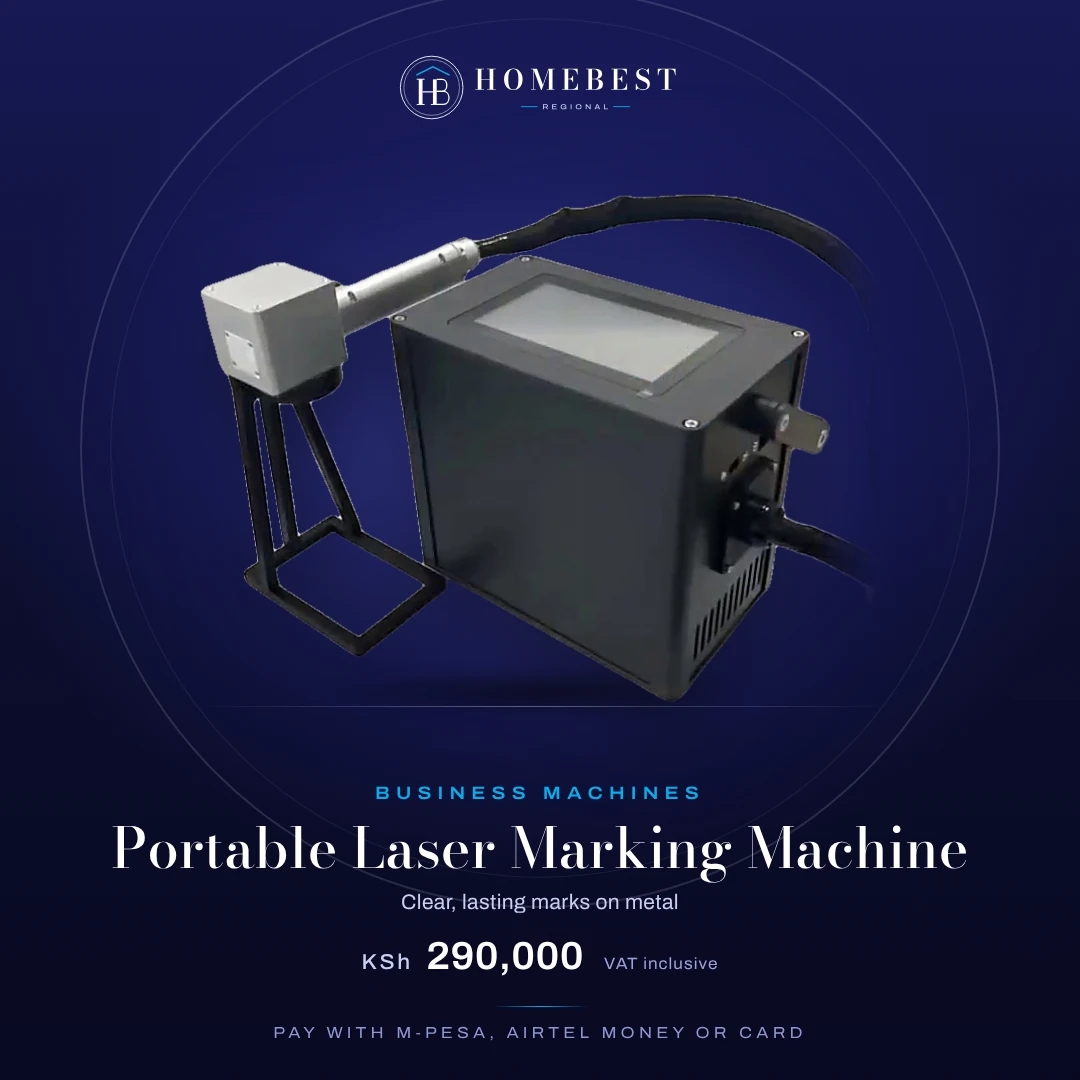
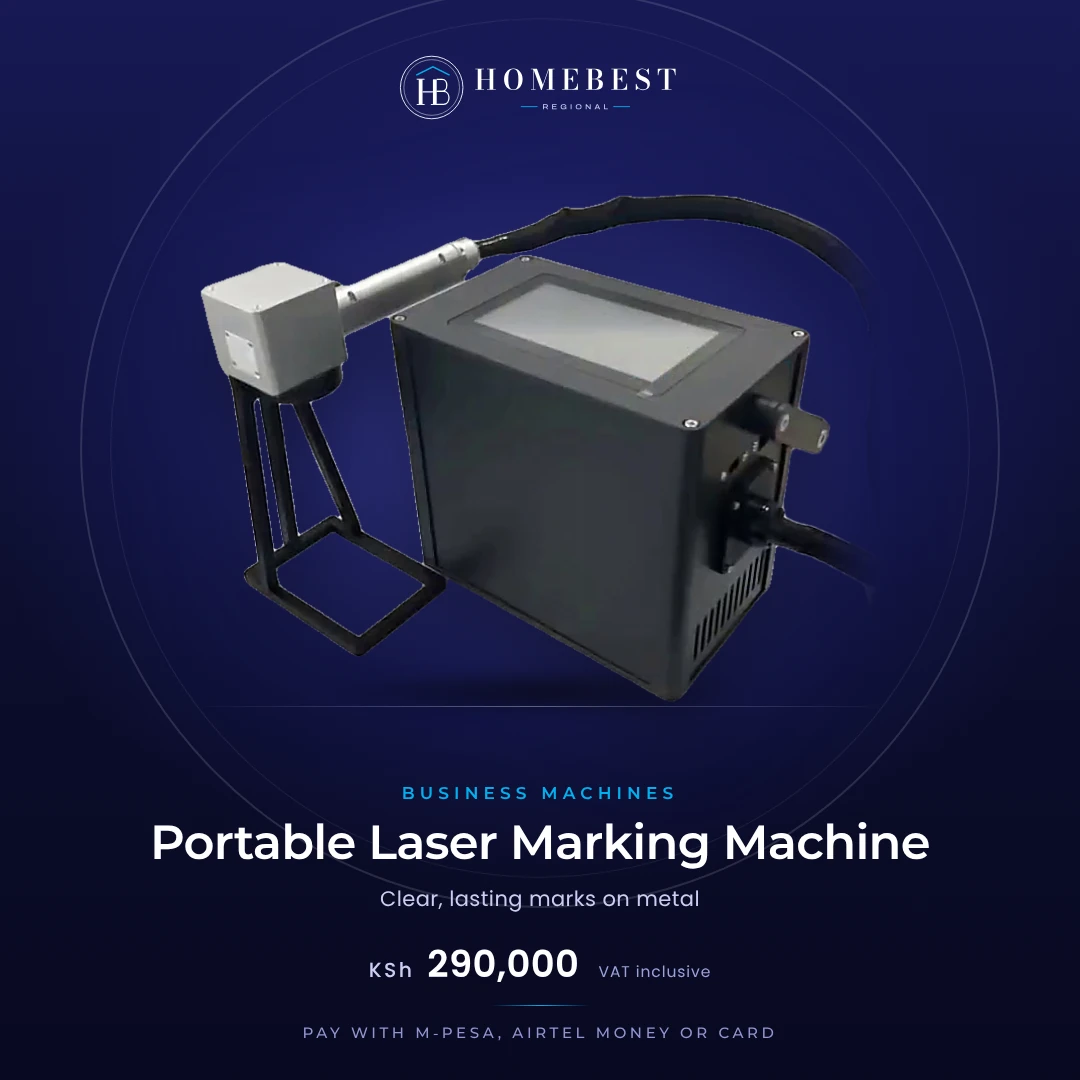
Montserrat headings, Poppins body; show products with no price as "Price on request"
- Fonts: Montserrat for titles and headings, Poppins for body text
- Branded product pictures redone in the same fonts
- Price 0 shows "Price on request" with an ask button; checkout and cart refuse it
- Header: nav stays on one line; search box shows on wide screens

Claude-Session: https://claude.ai/code/session_01E5MXWHsrJD8r9zB29mGTXd

Changed region(s): [[0.0917, 0.7028, 0.8861, 0.9167], [0.2444, 0.9472, 0.7333, 0.9778]]

diff --git a/app/globals.css b/app/globals.css
@@ -23,8 +23,8 @@
   --danger-tint: #fdecea;
   --warning-tint: #fff4d6;
 
-  --font-display: 'Bodoni Moda Variable', 'Didot', Georgia, serif;
-  --font-body: 'Archivo Variable', system-ui, sans-serif;
+  --font-display: 'Montserrat Variable', 'Montserrat', system-ui, sans-serif; /* titles and headings */
+  --font-body: 'Poppins', system-ui, sans-serif;                             /* body text */
 
   --radius-sm: 4px;
   --radius: 6px;
@@ -46,8 +46,8 @@ body {
   background: var(--paper);
   color: var(--ink);
   font-family: var(--font-body);
-  font-size: 17px;
-  line-height: 1.55;
+  font-size: 16px;
+  line-height: 1.65;
   -webkit-font-smoothing: antialiased;
 }
 
@@ -57,21 +57,18 @@ a:hover { color: var(--brand-deep); }
 
 h1, h2, h3, h4 {
   font-family: var(--font-display);
-  font-weight: 500;
-  font-variation-settings: 'opsz' 28;
-  line-height: 1.12;
-  letter-spacing: 0;
+  font-weight: 600;
+  line-height: 1.15;
+  letter-spacing: -0.015em;
   margin: 0 0 0.5em;
   color: var(--ink);
 }
-h3, h4 { font-family: var(--font-body); font-weight: 650; font-variation-settings: normal; }
-/* The staff panel keeps the plain, easy-to-scan font */
-.admin h1, .admin h2, .admin h3 { font-family: var(--font-body); font-weight: 700; font-variation-settings: normal; }
+h3, h4 { letter-spacing: 0; }
 .admin .btn { text-transform: none; letter-spacing: 0; font-size: 1rem; }
 /* Small uppercase label above headings */
 .eyebrow {
   display: inline-block; margin-bottom: 14px;
-  font-family: var(--font-body); font-size: 0.78rem; font-weight: 600; font-stretch: 115%;
+  font-family: var(--font-display); font-size: 0.76rem; font-weight: 600;
   letter-spacing: 0.28em; text-transform: uppercase; color: var(--accent);
 }
 h1 { font-size: clamp(2rem, 5vw, 3.1rem); }
@@ -117,7 +114,7 @@ p { margin: 0 0 1em; }
   display: inline-flex; align-items: center; justify-content: center; gap: 8px;
   min-height: 48px; padding: 0 22px;
   border-radius: var(--radius); border: 1.5px solid transparent;
-  font-family: var(--font-body); font-weight: 600; font-size: 0.92rem; font-stretch: 108%;
+  font-family: var(--font-display); font-weight: 600; font-size: 0.86rem;
   letter-spacing: 0.08em; text-transform: uppercase;
   text-decoration: none; cursor: pointer; white-space: nowrap;
   transition: background-color 0.2s, border-color 0.2s, color 0.2s, box-shadow 0.2s;
@@ -155,7 +152,6 @@ p { margin: 0 0 1em; }
 }
 .logo {
   font-family: var(--font-display);
-  font-stretch: 125%;
   font-weight: 800;
   font-size: 1.45rem;
   color: var(--brand-deep);
@@ -166,14 +162,14 @@ p { margin: 0 0 1em; }
 .logo:hover { color: var(--brand); }
 .logo img { height: 38px; width: auto; }
 @media (min-width: 720px) { .logo img { height: 44px; } }
-.main-nav { display: none; gap: 22px; }
+.main-nav { display: none; gap: 20px; flex-shrink: 0; white-space: nowrap; }
 .main-nav a {
-  color: var(--ink); text-decoration: none; font-weight: 550; font-size: 0.8rem;
-  letter-spacing: 0.14em; text-transform: uppercase; font-stretch: 108%;
+  color: var(--ink); text-decoration: none; font-family: var(--font-display); font-weight: 600; font-size: 0.78rem;
+  letter-spacing: 0.12em; text-transform: uppercase;
   padding: 6px 0; border-bottom: 1px solid transparent;
 }
 .main-nav a:hover { color: var(--brand); border-bottom-color: var(--accent); }
-.header-search { display: none; flex: 1; max-width: 340px; margin-left: auto; }
+.header-search { display: none; flex: 1; min-width: 180px; max-width: 320px; margin-left: auto; }
 .header-search input {
   width: 100%; height: 42px; padding: 0 14px;
   border: 1.5px solid var(--line); border-radius: 999px;
@@ -210,9 +206,11 @@ p { margin: 0 0 1em; }
 }
 @media (min-width: 960px) {
   .main-nav { display: flex; }
+  .menu-toggle { display: none; }
+}
+@media (min-width: 1200px) {
   .header-search { display: block; }
   .header-actions { margin-left: 0; }
-  .menu-toggle { display: none; }
 }
 
 /* Hero: night indigo studio with a floating product */
@@ -234,12 +232,11 @@ p { margin: 0 0 1em; }
 @media (min-width: 900px) { .hero-grid { grid-template-columns: 1.05fr 1fr; gap: 24px; } }
 .hero h1 {
   color: #fff;
-  font-weight: 500;
-  font-variation-settings: 'opsz' 96;
-  font-size: clamp(2.7rem, 7.4vw, 5.4rem);
-  line-height: 0.98;
-  letter-spacing: -0.01em;
-  max-width: 11ch;
+  font-weight: 600;
+  font-size: clamp(2.4rem, 6.2vw, 4.6rem);
+  line-height: 1.04;
+  letter-spacing: -0.03em;
+  max-width: 12ch;
   margin-bottom: 22px;
 }
 .hero p {
@@ -304,7 +301,7 @@ p { margin: 0 0 1em; }
   .need h2 { font-size: 1.3rem; margin-bottom: 6px; }
   .need p { margin-bottom: 14px; font-size: 0.98rem; }
 }
-.need-go { font-weight: 600; color: var(--ink); font-size: 0.78rem; letter-spacing: 0.14em; text-transform: uppercase; }
+.need-go { font-family: var(--font-display); font-weight: 600; color: var(--ink); font-size: 0.76rem; letter-spacing: 0.12em; text-transform: uppercase; }
 
 /* Product grid and cards */
 .product-grid {
@@ -347,7 +344,9 @@ p { margin: 0 0 1em; }
   margin: 0 0 6px;
   display: -webkit-box; -webkit-line-clamp: 2; -webkit-box-orient: vertical; overflow: hidden;
 }
-.price { font-family: var(--font-body); font-weight: 650; font-size: 1.05rem; letter-spacing: 0.01em; white-space: nowrap; }
+.price { font-family: var(--font-body); font-weight: 600; font-size: 1.05rem; letter-spacing: 0.01em; white-space: nowrap; }
+.price-ask { color: var(--ink-soft); font-weight: 500; font-size: 0.95rem; }
+.product-price.price-ask { font-size: 1.35rem; color: var(--ink); }
 .price-old { display: inline-block; white-space: nowrap; color: var(--ink-soft); text-decoration: line-through; font-weight: 500; font-size: 0.92rem; margin-left: 8px; }
 
 .empty {

diff --git a/app/(shop)/products/[slug]/page.js b/app/(shop)/products/[slug]/page.js
@@ -1,7 +1,7 @@
 import Link from 'next/link'
 import { notFound } from 'next/navigation'
 import { getProduct, getProducts } from '@/lib/data'
-import { featuresList, formatKES } from '@/lib/format'
+import { featuresList, formatKES, hasPrice } from '@/lib/format'
 import { site, whatsappLink } from '@/lib/site'
 import ProductGallery from '@/components/ProductGallery'
 import ProductBuy from '@/components/ProductBuy'
@@ -18,7 +18,9 @@ export async function generateMetadata({ params }) {
   if (!product) return { title: 'Product not found' }
   return {
     title: product.name,
-    description: product.short_description || `${product.name} for ${formatKES(product.price)}. Pay with M-Pesa or card.`,
+    description:
+      product.short_description ||
+      (hasPrice(product) ? `${product.name} for ${formatKES(product.price)}. Pay with M-Pesa or card.` : `${product.name} at Homebest.`),
     openGraph: { images: product.images?.[0] ? [product.images[0]] : [] },
   }
 }
@@ -41,7 +43,10 @@ export default async function ProductPage({ params }) {
   const features = featuresList(product.features)
   const stock = stockText(product)
   const onSale = product.compare_at_price && product.compare_at_price > product.price
-  const askHref = whatsappLink(`Hello Homebest, I have a question about: ${product.name}`)
+  const priced = hasPrice(product)
+  const askHref = whatsappLink(
+    priced ? `Hello Homebest, I have a question about: ${product.name}` : `Hello Homebest, please tell me the price of: ${product.name}`
+  )
 
   const jsonLd = {
     '@context': 'https://schema.org',
@@ -51,14 +56,16 @@ export default async function ProductPage({ params }) {
     description: product.short_description || product.description || '',
     sku: product.sku || undefined,
     brand: product.brand ? { '@type': 'Brand', name: product.brand } : undefined,
-    offers: {
-      '@type': 'Offer',
-      priceCurrency: 'KES',
-      price: product.price,
-      availability:
-        product.track_stock && product.stock <= 0 ? 'https://schema.org/OutOfStock' : 'https://schema.org/InStock',
-      seller: { '@type': 'Organization', name: site.legalName },
-    },
+    offers: priced
+      ? {
+          '@type': 'Offer',
+          priceCurrency: 'KES',
+          price: product.price,
+          availability:
+            product.track_stock && product.stock <= 0 ? 'https://schema.org/OutOfStock' : 'https://schema.org/InStock',
+          seller: { '@type': 'Organization', name: site.legalName },
+        }
+      : undefined,
   }
 
   return (
@@ -82,15 +89,33 @@ export default async function ProductPage({ params }) {
           {product.brand ? <p className="muted" style={{ marginBottom: 6 }}>{product.brand}</p> : null}
           <h1>{product.name}</h1>
           {product.short_description ? <p className="muted">{product.short_description}</p> : null}
-          <div className="product-price price">
-            {formatKES(product.price)}
-            {onSale ? <span className="price-old">{formatKES(product.compare_at_price)}</span> : null}
-          </div>
-          <p className={'stock-note ' + stock.className}>{stock.text}</p>
+          {priced ? (
+            <>
+              <div className="product-price price">
+                {formatKES(product.price)}
+                {onSale ? <span className="price-old">{formatKES(product.compare_at_price)}</span> : null}
+              </div>
+              <p className={'stock-note ' + stock.className}>{stock.text}</p>
+              <ProductBuy product={product} />
+            </>
+          ) : (
+            <>
+              <div className="product-price price price-ask">Price on request</div>
+              <p className="muted">Ask us for today&rsquo;s price and we will get back to you quickly.</p>
+              <div className="buy-row">
+                {askHref ? (
+                  <a href={askHref} className="btn btn-whatsapp" target="_blank" rel="noopener noreferrer">
+                    Ask on WhatsApp
+                  </a>
+                ) : null}
+                <Link href="/contact" className={askHref ? 'btn btn-outline' : 'btn btn-primary'}>
+                  Ask for the price
+                </Link>
+              </div>
+            </>
+          )}
 
-          <ProductBuy product={product} />
-
-          {askHref ? (
+          {priced && askHref ? (
             <p>
               <a href={askHref} target="_blank" rel="noopener noreferrer">
                 Ask us about this product on WhatsApp

diff --git a/components/ProductCard.js b/components/ProductCard.js
@@ -1,6 +1,6 @@
 import Image from 'next/image'
 import Link from 'next/link'
-import { formatKES } from '@/lib/format'
+import { formatKES, hasPrice } from '@/lib/format'
 import { DropIcon } from '@/components/Icons'
 import AddToCartButton from '@/components/AddToCartButton'
 
@@ -32,15 +32,27 @@ export default function ProductCard({ product, priority }) {
           {product.brand ? <div className="product-card-brand">{product.brand}</div> : null}
           <h3 className="product-card-name">{product.name}</h3>
           <div>
-            <span className="price">{formatKES(product.price)}</span>
-            {onSale ? <span className="price-old">{formatKES(product.compare_at_price)}</span> : null}
+            {hasPrice(product) ? (
+              <>
+                <span className="price">{formatKES(product.price)}</span>
+                {onSale ? <span className="price-old">{formatKES(product.compare_at_price)}</span> : null}
+              </>
+            ) : (
+              <span className="price price-ask">Price on request</span>
+            )}
           </div>
         </div>
       </Link>
-      <AddToCartButton
-        disabled={outOfStock}
-        product={{ id: product.id, slug: product.slug, name: product.name, price: product.price, image, maxQty }}
-      />
+      {hasPrice(product) ? (
+        <AddToCartButton
+          disabled={outOfStock}
+          product={{ id: product.id, slug: product.slug, name: product.name, price: product.price, image, maxQty }}
+        />
+      ) : (
+        <Link href={'/products/' + product.slug} className="btn btn-outline btn-small btn-block">
+          Ask for the price
+        </Link>
+      )}
     </article>
   )
 }

diff --git a/app/api/checkout/route.js b/app/api/checkout/route.js
@@ -56,7 +56,7 @@ export async function POST(request) {
   const lines = []
   for (const [id, qty] of wanted) {
     const p = products.find((x) => x.id === id)
-    if (!p || !p.is_active) return fail('Something in your cart is no longer for sale. Please check your cart.', 409)
+    if (!p || !p.is_active || !(p.price > 0)) return fail('Something in your cart is no longer for sale. Please check your cart.', 409)
     if (p.track_stock && p.stock < qty) {
       return fail(
         p.stock > 0 ? `We only have ${p.stock} of ${p.name} left. Please change the quantity.` : `${p.name} just sold out. Please take it out of your cart.`,

diff --git a/app/layout.js b/app/layout.js
@@ -1,5 +1,9 @@
-import '@fontsource-variable/archivo/wdth.css'
-import '@fontsource-variable/bodoni-moda/opsz.css'
+// Montserrat for titles and headings, Poppins for body text
+import '@fontsource-variable/montserrat'
+import '@fontsource/poppins/400.css'
+import '@fontsource/poppins/500.css'
+import '@fontsource/poppins/600.css'
+import '@fontsource/poppins/700.css'
 import './globals.css'
 import { site } from '@/lib/site'
 

diff --git a/lib/format.js b/lib/format.js
@@ -5,6 +5,11 @@ export function formatKES(amount) {
   return 'KSh ' + value.toLocaleString('en-KE', { maximumFractionDigits: 0 })
 }
 
+// A product with no price yet (0) shows "Price on request" and cannot be added to the cart.
+export function hasPrice(product) {
+  return Number(product?.price) > 0
+}
+
 export function formatDate(value) {
   if (!value) return ''
   return new Date(value).toLocaleString('en-KE', {

diff --git a/app/api/quote/route.js b/app/api/quote/route.js
@@ -23,7 +23,7 @@ export async function POST(request) {
   const found = productsRes.data || []
   const products = ids.map((id) => {
     const p = found.find((x) => x.id === id)
-    if (!p || !p.is_active) return { id, available: false }
+    if (!p || !p.is_active || !(p.price > 0)) return { id, available: false }
     const maxQty = p.track_stock ? Math.max(p.stock, 0) : 20
     return {
       id: p.id,
